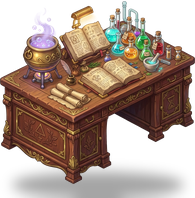
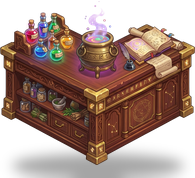
fix: re-orient alchemy counter front-facing towards player with Tom standing naturally behind it

diff --git a/Front/src/game/scenes/HallScene.js b/Front/src/game/scenes/HallScene.js
@@ -323,9 +323,9 @@ export class HallScene extends Phaser.Scene {
     })
     this._npcs.push(maryNpc)
 
-    // 2. Tom 词根炼金学者站在大厅右侧学术角（W * 0.64, H * 0.56），与 Mary 左右呼应
-    const tx = Math.round(W * 0.64)
-    const ty = Math.round(H * 0.56)
+    // 2. Tom 词根炼金学者站在大厅右侧学术角（W * 0.65, H * 0.55），与 Mary 左右呼应
+    const tx = Math.round(W * 0.65)
+    const ty = Math.round(H * 0.55)
     const tomData = {
       npcKey: 'tom_alchemist',
       name: 'Tom',
@@ -340,31 +340,31 @@ export class HallScene extends Phaser.Scene {
     })
     this._npcs.push(tomNpc)
 
-    // 在 Tom 面前放置高精 2.5D 词根魔法研习台 (prop_table_magic)
+    // 在 Tom 面前放置正面朝向玩家的高精 2.5D 词根魔法研习台 (prop_table_magic)
     const tableX = Math.round(W * 0.64)
     const tableY = Math.round(H * 0.65)
-    const table = this.add.image(tableX, tableY, 'prop_table_magic').setOrigin(0.5, 0.90).setScale(0.95)
+    const table = this.add.image(tableX, tableY, 'prop_table_magic').setOrigin(0.5, 0.88).setScale(1.0)
     table.depthY = tableY
     this._ySortedProps.push(table)
 
-    // 在研习台左侧炼金坩埚上方升起袅袅星灵紫雾魔力微粒
-    for (let i = 0; i < 6; i++) {
-      const spX = tableX - 52 + Phaser.Math.Between(-8, 8)
-      const spY = tableY - 88 + Phaser.Math.Between(-4, 4)
-      const etherSpark = this.add.circle(spX, spY, Phaser.Math.Between(1.5, 3), 0xc084fc, 0.75)
+    // 在研习台中央炼金坩埚上方升起袅袅星灵紫雾魔力微粒
+    for (let i = 0; i < 7; i++) {
+      const spX = tableX + 2 + Phaser.Math.Between(-8, 8)
+      const spY = tableY - 80 + Phaser.Math.Between(-4, 4)
+      const etherSpark = this.add.circle(spX, spY, Phaser.Math.Between(1.5, 3.2), 0xc084fc, 0.8)
         .setDepth(Math.round(tableY + 5))
       this._mapObjects.push(etherSpark)
       this.tweens.add({
         targets: etherSpark,
-        y: spY - Phaser.Math.Between(26, 46),
+        y: spY - Phaser.Math.Between(26, 48),
         x: spX + Phaser.Math.Between(-10, 10),
         alpha: 0.05,
-        scale: 1.4,
+        scale: 1.5,
         duration: Phaser.Math.Between(1600, 2400),
         yoyo: false,
         repeat: -1,
         ease: 'Sine.easeOut',
-        delay: i * 360
+        delay: i * 320
       })
     }
   }
